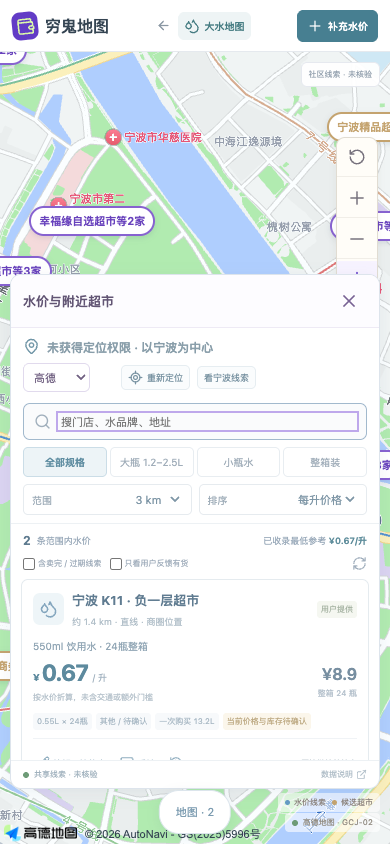
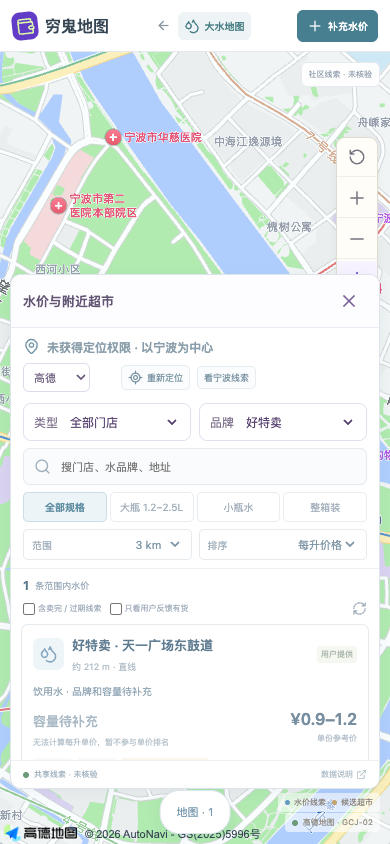
更新品牌筛选与分享直达的线上实测截图

diff --git a/README.md b/README.md
@@ -18,16 +18,20 @@
 
 ## 实际运行界面
 
-2026-10-22运行实测：发布构建连接真实高德SDK与共享接口，以宁波为参考中心。桌面侧栏和手机底部列表均有固定关闭按钮，收起后可重新打开；筛选与地图位置保持不变。截图未使用设备定位，店名和地址为公开POI；门店位置不证明营业、价格或库存。
+2026-10-23运行实测：发布构建连接真实高德SDK与共享接口，以宁波为参考中心。桌面与手机按品牌筛选同一份门店结果；固定关闭按钮可收起列表，筛选与地图位置保持不变。门店详情提供直达分享。截图未使用设备定位，店名和地址为公开POI；门店位置不证明营业、价格或库存。
 
 <p align="center">
-  <img src="docs/live-map-desktop.png" width="640" alt="穷鬼地图真实桌面运行界面，左侧显示带关闭按钮的宁波门店列表，右侧显示真实高德道路与门店标记">
-  <img src="docs/live-map-mobile.png" width="260" alt="穷鬼地图真实手机运行界面，显示可关闭的底部列表、宁波高德道路底图和门店标记">
+  <img src="docs/live-map-desktop.png" width="640" alt="穷鬼地图真实桌面运行界面，左侧按好特卖品牌筛选宁波门店，右侧显示真实高德道路与同一组门店标记">
+  <img src="docs/live-map-mobile.png" width="260" alt="穷鬼地图真实手机运行界面，显示品牌下拉筛选、可关闭列表与宁波高德道路底图">
 </p>
 
-大水地图同样提供固定的关闭入口，筛选与结果独立滚动，支持低高度横屏。
+门店直达链接在新浏览器打开后显示同店详情和讨论，支持刷新；未收录或失效的链接显示错误，不猜测相似门店。
 
-<img src="docs/live-water-mobile.png" width="260" alt="大水地图真实手机运行界面，水价列表右上角有关闭按钮，下方保留返回地图操作">
+<img src="docs/detail-mobile.png" width="260" alt="穷鬼地图手机浏览器从分享链接直接打开东鼓道好特卖详情，显示店名、地址、复制链接入口和共享评论">
+
+大水地图同样提供品牌筛选和固定关闭入口，筛选与结果独立滚动，支持低高度横屏。
+
+<img src="docs/live-water-mobile.png" width="260" alt="大水地图真实手机运行界面，按好特卖品牌筛选水价，保留关闭列表和返回地图操作">
 
 ## 运行
 
